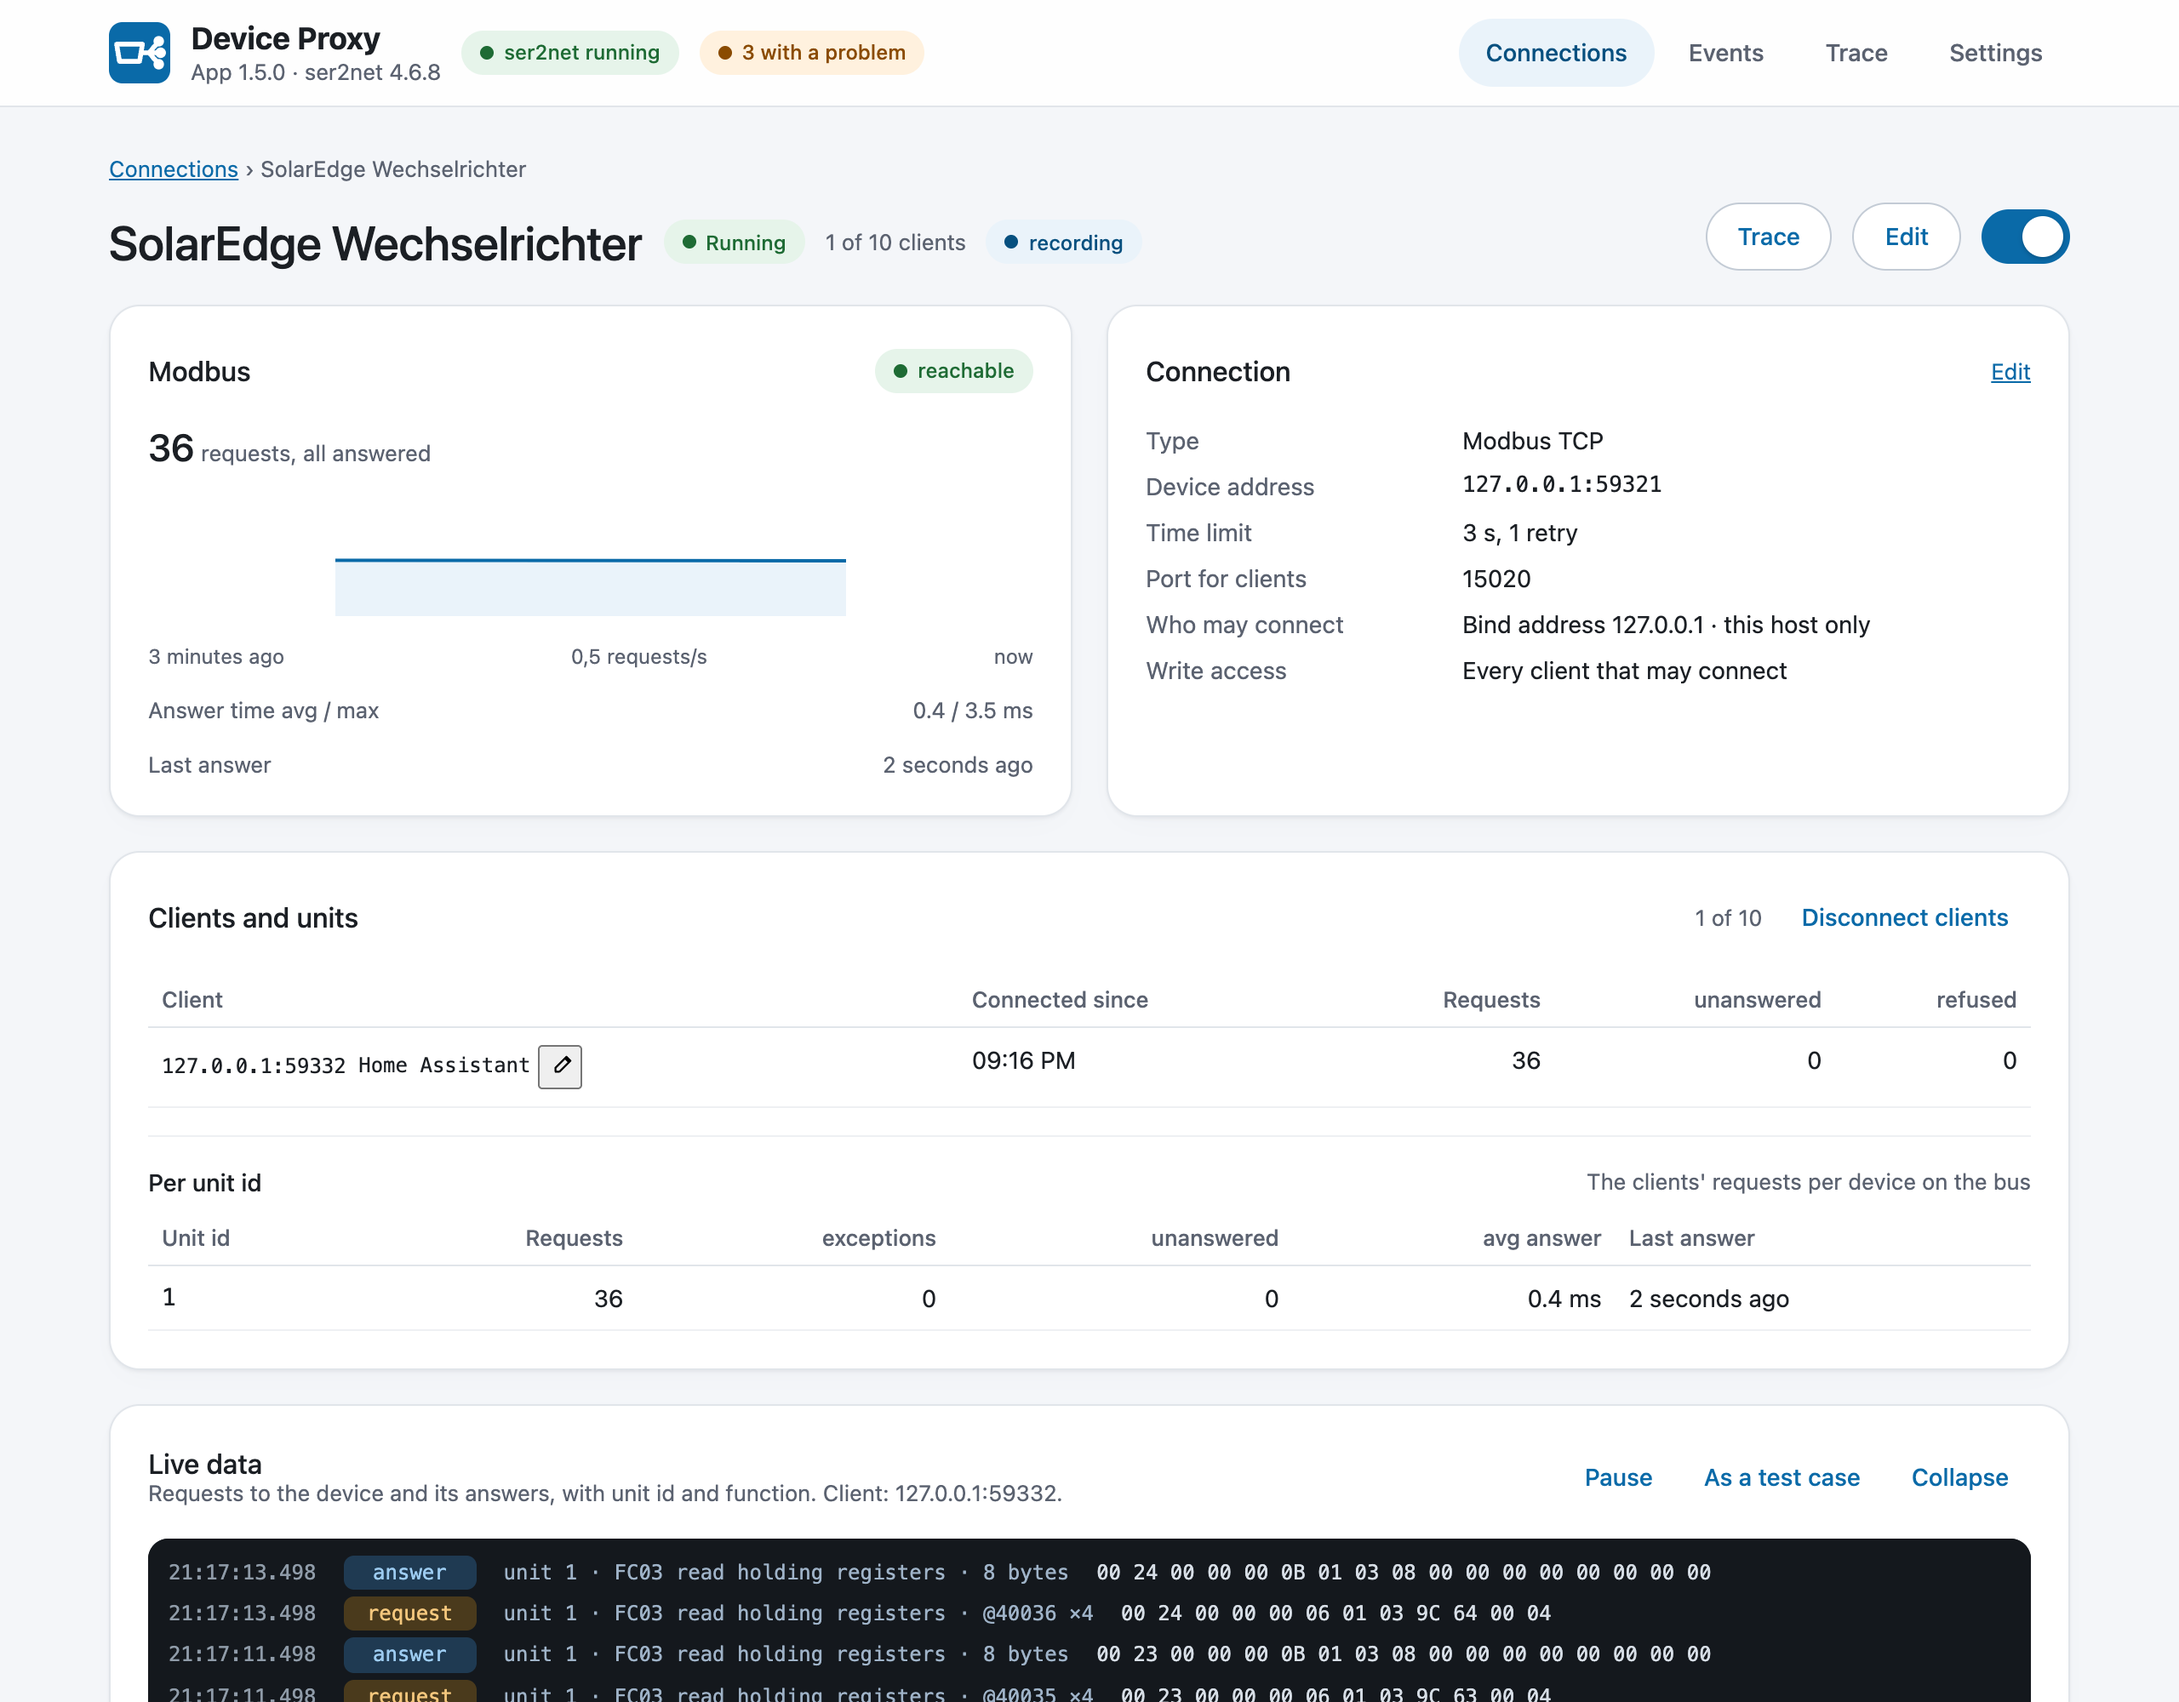
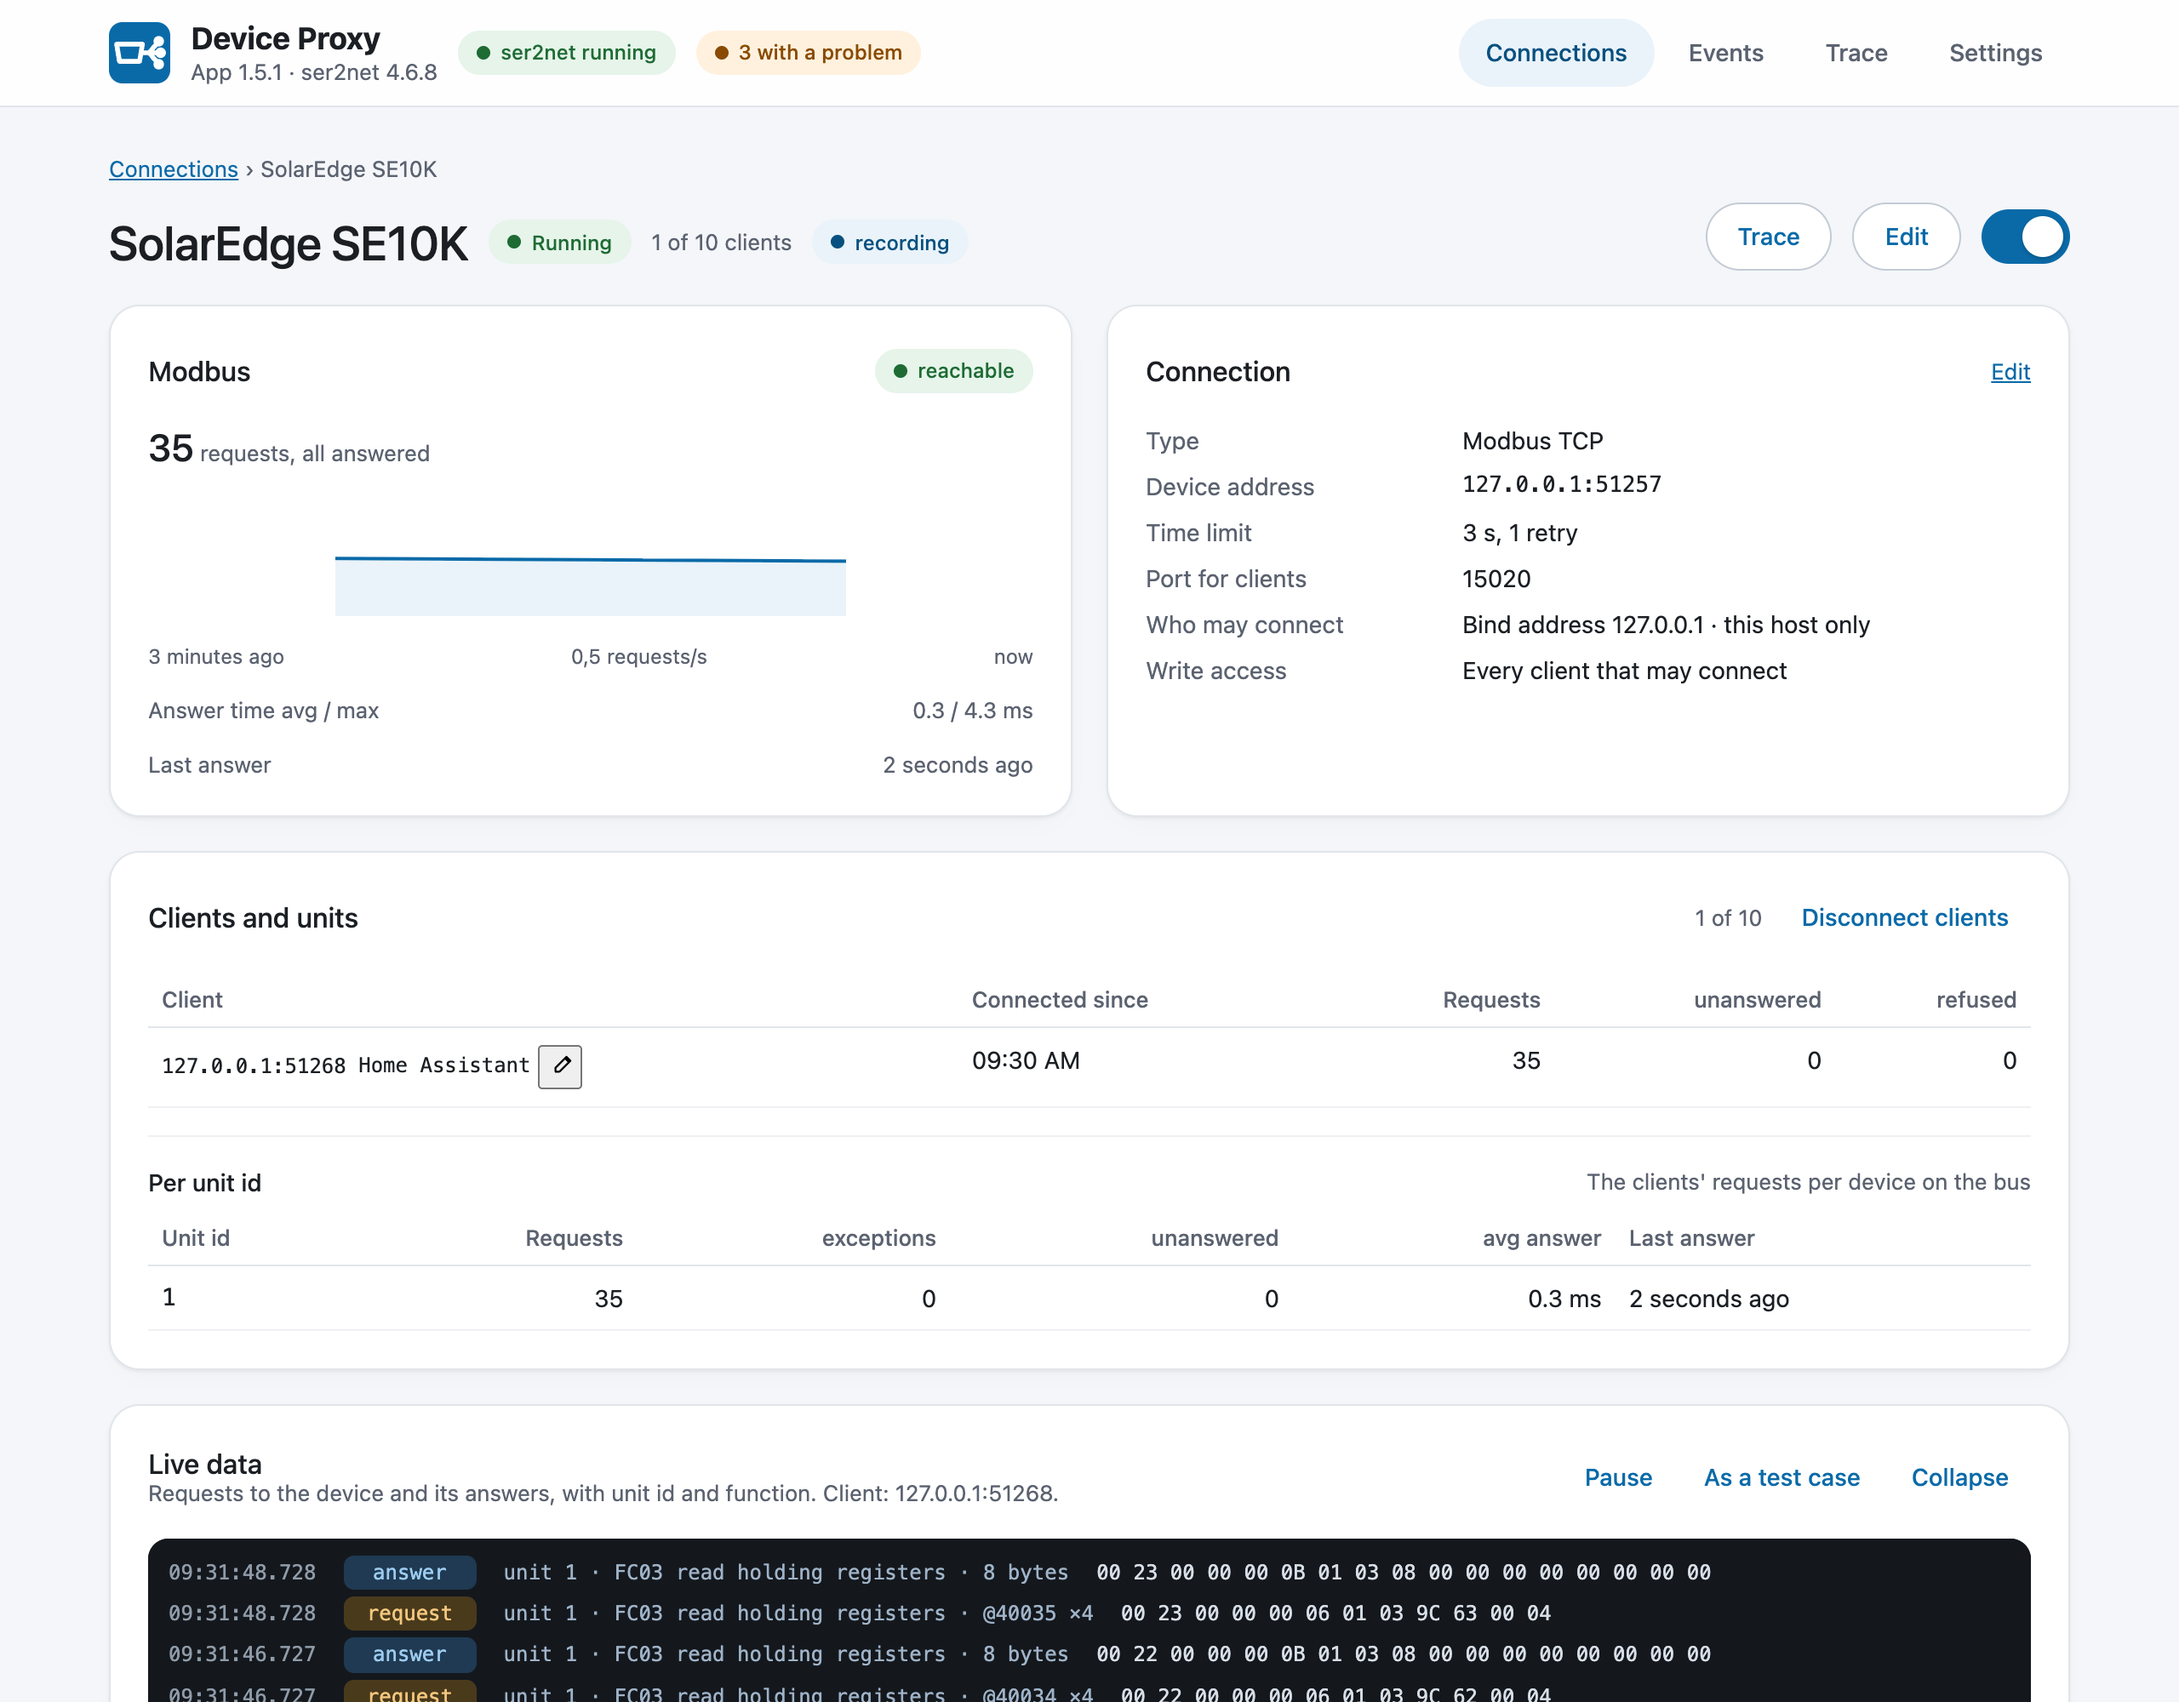
Demo connections with names that fit both languages; README screenshots renewed for 1.5.1

diff --git a/tools/dev_server.py b/tools/dev_server.py
@@ -317,7 +317,7 @@ async def main(port: int, offset: int = 0, replay: Path | None = None) -> None:
             ),
             connections=(
                 Connection(
-                    "eHZ Stromzähler",
+                    "eHZ SML",
                     "/dev/null",
                     3335 + offset,
                     template="ehz_sml",
@@ -342,7 +342,7 @@ async def main(port: int, offset: int = 0, replay: Path | None = None) -> None:
                     id="0000b001",
                 ),
                 Connection(
-                    "SolarEdge Wechselrichter",
+                    "SolarEdge SE10K",
                     "",
                     15020 + offset,
                     kind="modbus",
@@ -371,7 +371,7 @@ async def main(port: int, offset: int = 0, replay: Path | None = None) -> None:
                     fallback="0000fa02",
                 ),
                 Connection(
-                    "FAM-USB Ersatz",
+                    "FAM-USB 2",
                     "",
                     19102 + offset,
                     id="0000fa02",
@@ -401,7 +401,7 @@ async def main(port: int, offset: int = 0, replay: Path | None = None) -> None:
                     bind="127.0.0.1",
                 ),
                 Connection(
-                    "Wärmepumpe",
+                    "NIBE S1155",
                     "",
                     15021 + offset,
                     kind="modbus",
@@ -445,7 +445,7 @@ async def main(port: int, offset: int = 0, replay: Path | None = None) -> None:
                     "new": {
                         "192.168.1.77": {
                             "first": time.time() - 3600,
-                            "connection": "SolarEdge Wechselrichter",
+                            "connection": "SolarEdge SE10K",
                             "address": "192.168.1.77:51234",
                         }
                     },
